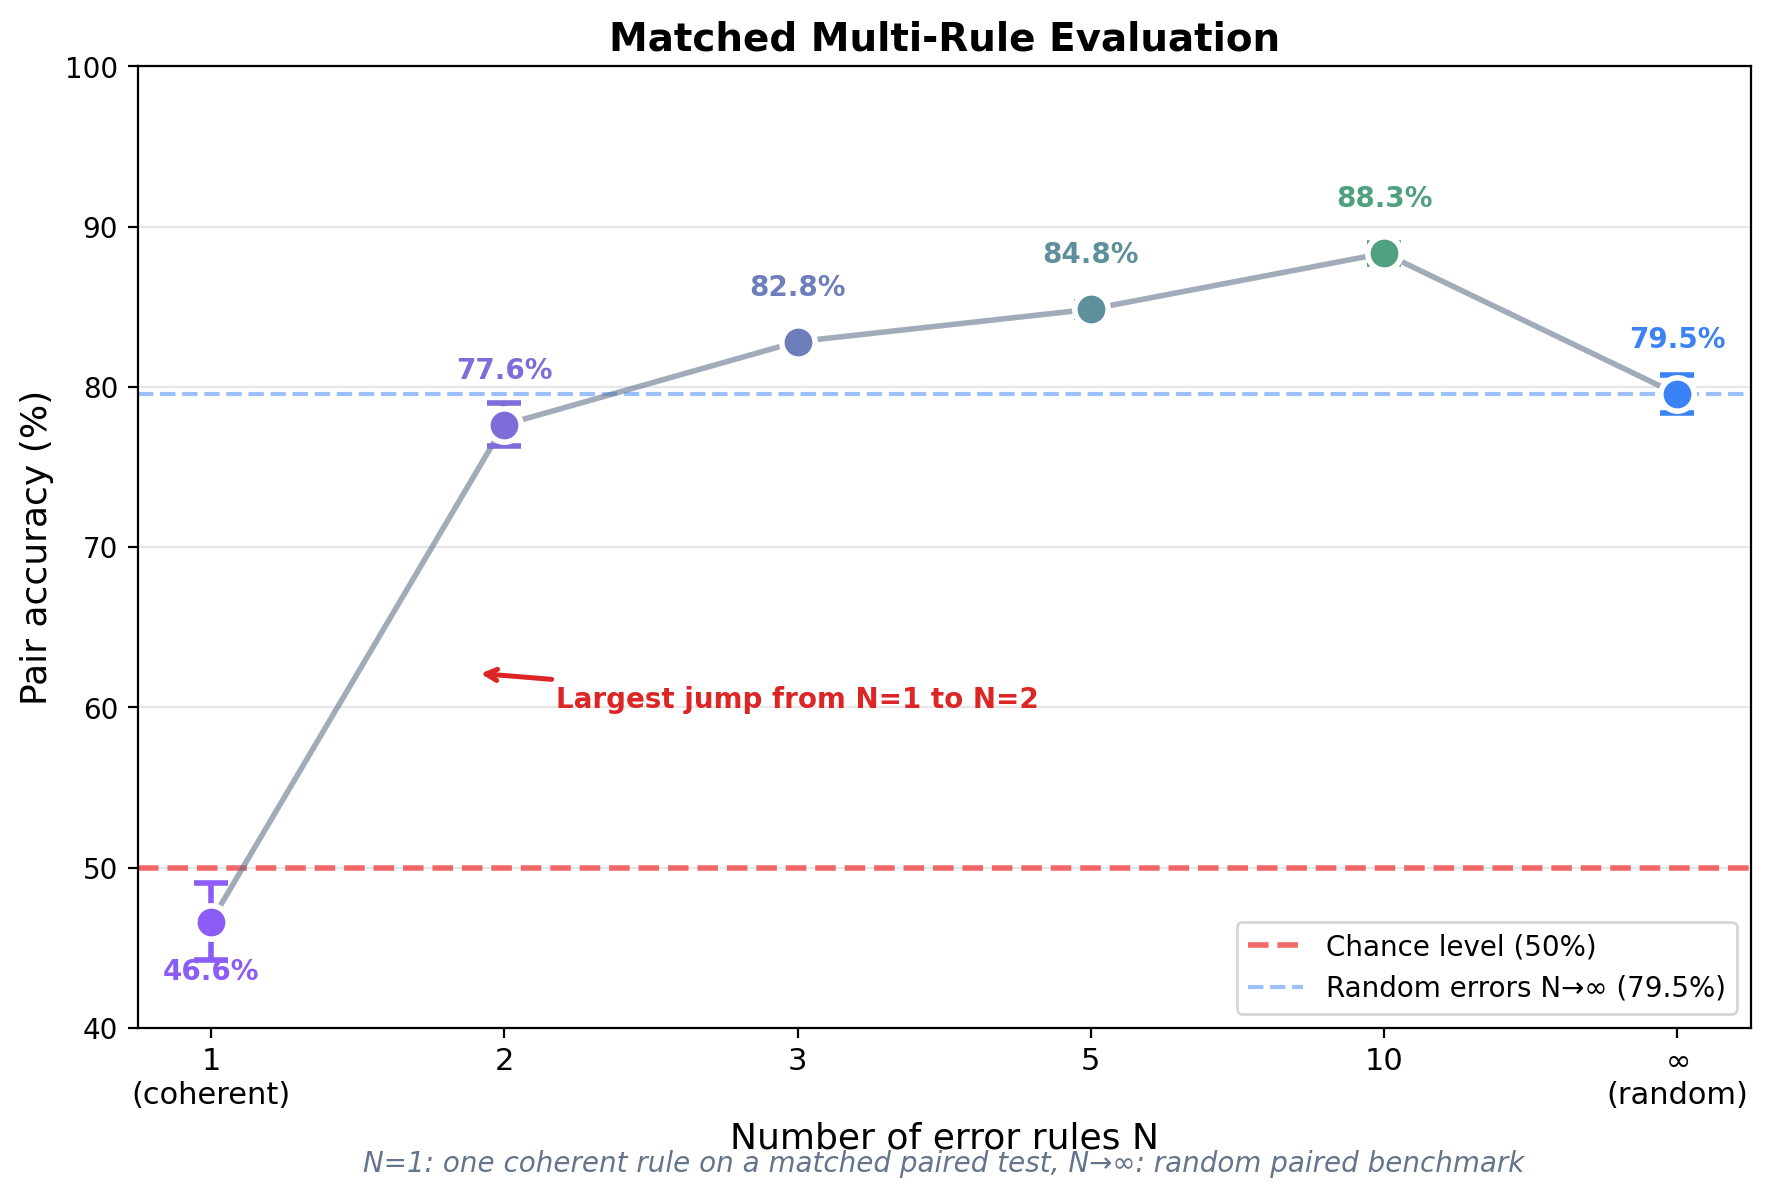
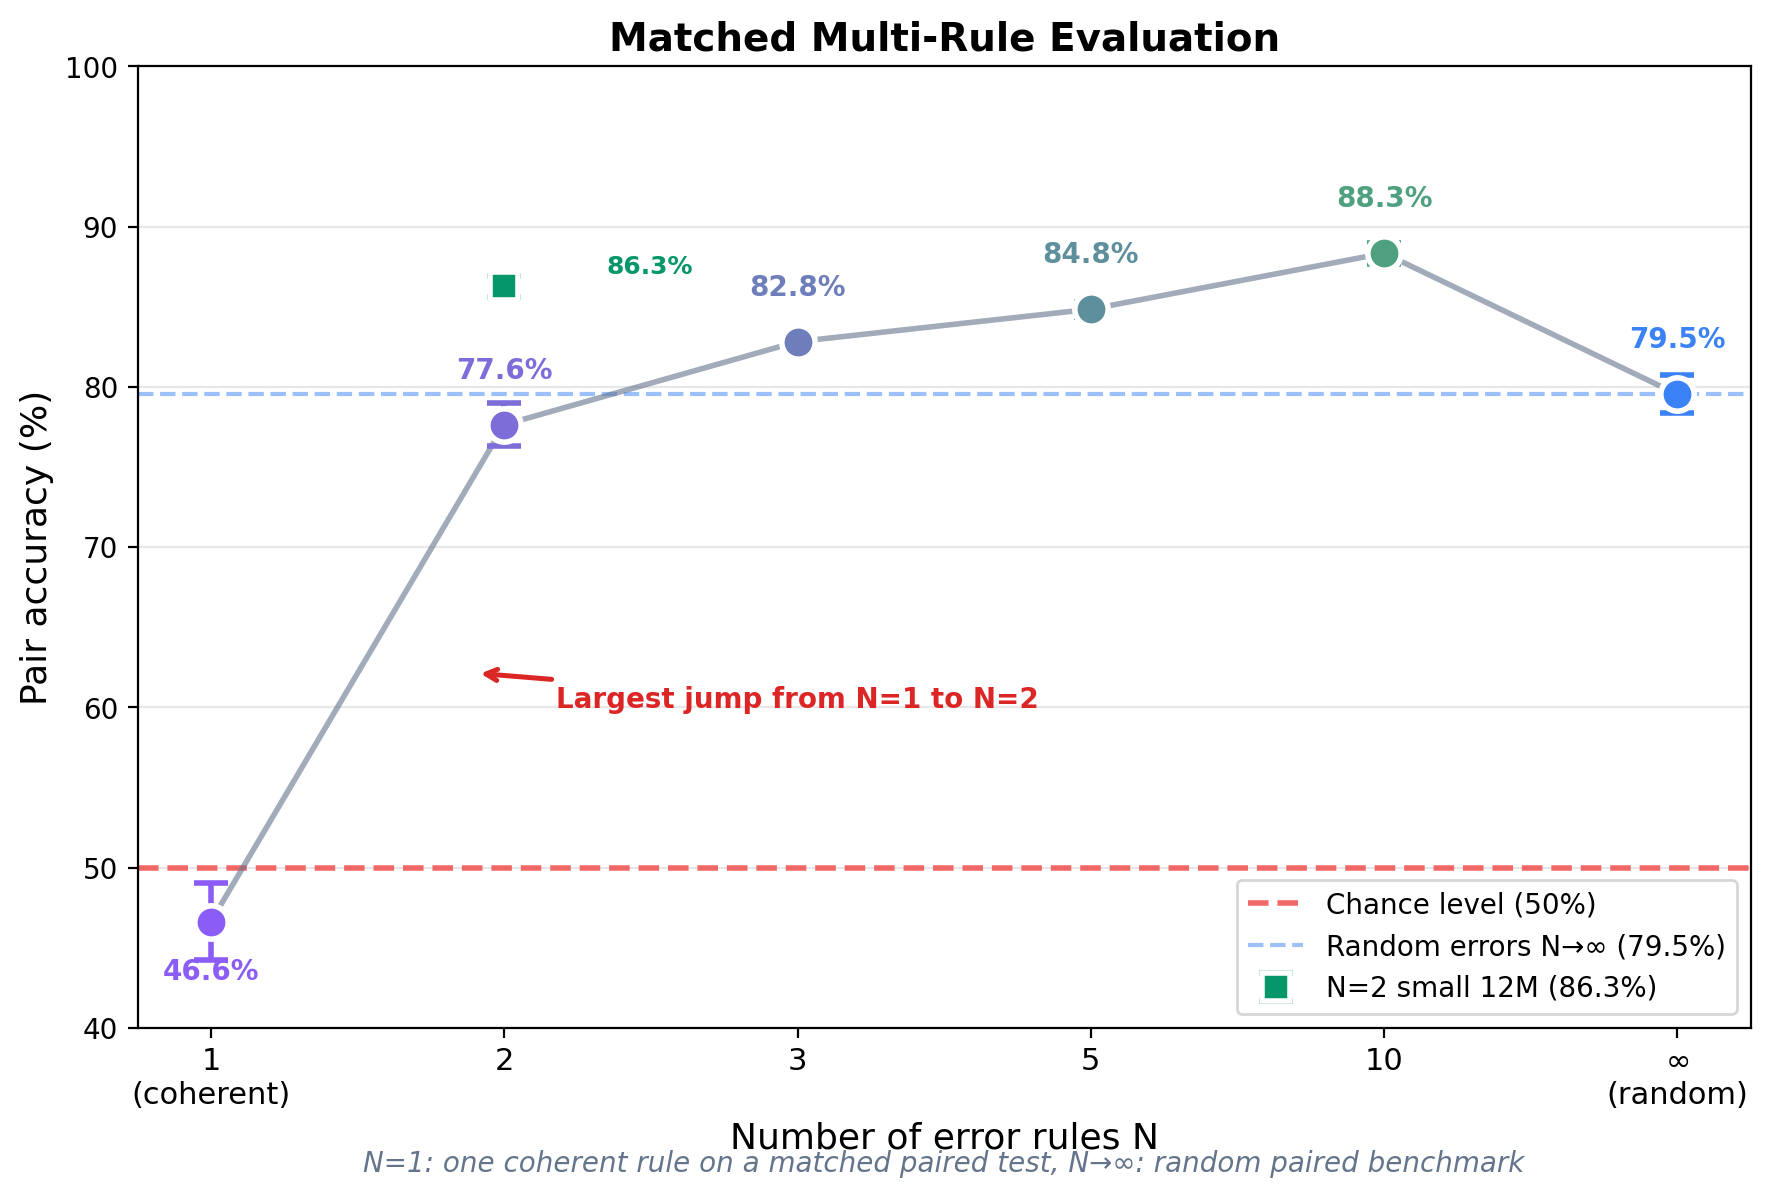
update paper text and figures with new experiment results
- Figure 7: add small N=2 data point (86.3%) to multi-rule plot
- Paper: mention BPE denoising coherent in below-chance replication list
- Paper: mention small N=2 result in complexity control paragraph
- Regenerate figure6 and figure7

Changed region(s): [[0.6836, 0.7412, 0.9633, 0.8339], [0.3418, 0.2162, 0.404, 0.2471], [0.2797, 0.2162, 0.3107, 0.2471]]

diff --git a/analysis/plot_scaling_multirule.py b/analysis/plot_scaling_multirule.py
@@ -194,6 +194,9 @@ mr10_accs, mr10_deltas = load_seeds('multirule_10_50_50_tiny_seed{seed}', filena
 
 n1_accs, _ = load_seeds('coherent_50_50_tiny_seed{seed}', filename='eval_paired_multirule_n1.json')
 
+# Small N=2 for scaling confirmation
+mr2_small_accs, mr2_small_deltas = load_seeds('multirule_2_50_50_small_seed{seed}', filename='eval_paired_matched.json')
+
 # N=1 is the coherent baseline evaluated on the matched N=1 multirule test.
 all_n = [1, 2, 3, 5, 10]
 all_acc_means = [
@@ -212,10 +215,13 @@ all_acc_stds = [
 ]
 random_acc_mean = np.mean(tiny_rand_accs)
 
-print("\n=== Multi-rule data ===")
+print("\n=== Multi-rule data (tiny) ===")
 for n, m, s in zip(all_n, all_acc_means, all_acc_stds):
     print(f"  N={n}: acc={m*100:.1f}% +/- {s*100:.1f}%")
 print(f"  N=inf (random): acc={random_acc_mean*100:.1f}%")
+if mr2_small_accs:
+    print(f"\n=== Multi-rule N=2 (small) ===")
+    print(f"  N=2 small: acc={np.mean(mr2_small_accs)*100:.1f}% +/- {np.std(mr2_small_accs)*100:.1f}%")
 
 
 # ============================================================
@@ -256,6 +262,16 @@ for i, (xp, ym) in enumerate(zip(x_pos, acc_means)):
     offset = -4 if i == 0 else 2.5
     ax.text(xp, ym * 100 + offset, f'{ym*100:.1f}%', ha='center', va='bottom',
             fontsize=10, fontweight='bold', color=colors[i])
+
+# Small N=2 point (if available)
+if mr2_small_accs:
+    mr2_small_mean = np.mean(mr2_small_accs)
+    mr2_small_std = np.std(mr2_small_accs)
+    ax.errorbar(1, mr2_small_mean * 100, yerr=mr2_small_std * 100, fmt='s', markersize=10,
+                capsize=6, color='#059669', linewidth=2, markeredgewidth=2,
+                markeredgecolor='white', zorder=7, label=f'N=2 small 12M ({mr2_small_mean*100:.1f}%)')
+    ax.text(1.35, mr2_small_mean * 100 + 0.5, f'{mr2_small_mean*100:.1f}%', ha='left', va='bottom',
+            fontsize=9, fontweight='bold', color='#059669')
 
 # Annotation: steepest early rise
 ax.annotate('Largest jump from N=1 to N=2',

diff --git a/paper_v2.md b/paper_v2.md
@@ -165,11 +165,11 @@ This is the central result. When the same problem appears with both a correct an
 
 **Scaling.** J1 accuracy increases monotonically: 65% -> 75% -> 81% -> 85%. The largest gain is between tiny and small (+9 pp), with continued growth through large. J2 accuracy converges toward 50% from below as models grow, consistent with the MDL prediction that equal-description-length systems at equal frequency should be indistinguishable.
 
-**Below-chance accuracy at small scale (J2).** The tiny model's J2 accuracy of 43.5% is consistently below 50%, replicating across multiple independent setups: standard coherent (47.2%), BPE coherent (45.9%), synthetic world coherent (46.6%). This reflects textual simplicity asymmetry: the coherent error rules produce shorter or simpler outputs than the true rules (e.g., dropping a coefficient in derivatives). As capacity grows, the model represents both systems with equal per-token accuracy, and the asymmetry disappears.
+**Below-chance accuracy at small scale (J2).** The tiny model's J2 accuracy of 43.5% is consistently below 50%, replicating across multiple independent setups: standard coherent (47.2%), BPE standard coherent (45.9%), BPE denoising coherent (49.3%), synthetic world coherent (46.6%). This reflects textual simplicity asymmetry: the coherent error rules produce shorter or simpler outputs than the true rules (e.g., dropping a coefficient in derivatives). As capacity grows, the model represents both systems with equal per-token accuracy, and the asymmetry disappears.
 
 This below-chance pattern is not a confound -- it strengthens the thesis. When the false system is textually simpler, the compressor *actively prefers it over truth*. This is exactly what the Compression--Consistency Principle predicts: the compressor has no concept of correctness; it follows whichever signal is easier to encode. When coherent errors are simpler, they win; when matched in complexity, the result is chance; in this controlled setting, truth receives no preferential treatment.
 
-A potential concern is that the entire random/coherent contrast reduces to local text complexity rather than system-level compressibility. The multi-rule experiment (Section 4.3) controls for this: at N=1 and N=2, the *same* error rules with the *same* textual complexity are used -- only the number of competing rules changes. If local simplicity drove the effect, N=2 should behave like N=1. Instead, accuracy jumps from 47% to 78%, confirming that the critical variable is the diversity of error rules, not their surface form.
+A potential concern is that the entire random/coherent contrast reduces to local text complexity rather than system-level compressibility. The multi-rule experiment (Section 4.3) controls for this: at N=1 and N=2, the *same* error rules with the *same* textual complexity are used -- only the number of competing rules changes. If local simplicity drove the effect, N=2 should behave like N=1. Instead, accuracy jumps from 47% to 78% at tiny and to 86% at small, confirming that the critical variable is the diversity of error rules, not their surface form.
 
 ### 4.2 J3 and J4: Noise Tolerance
 